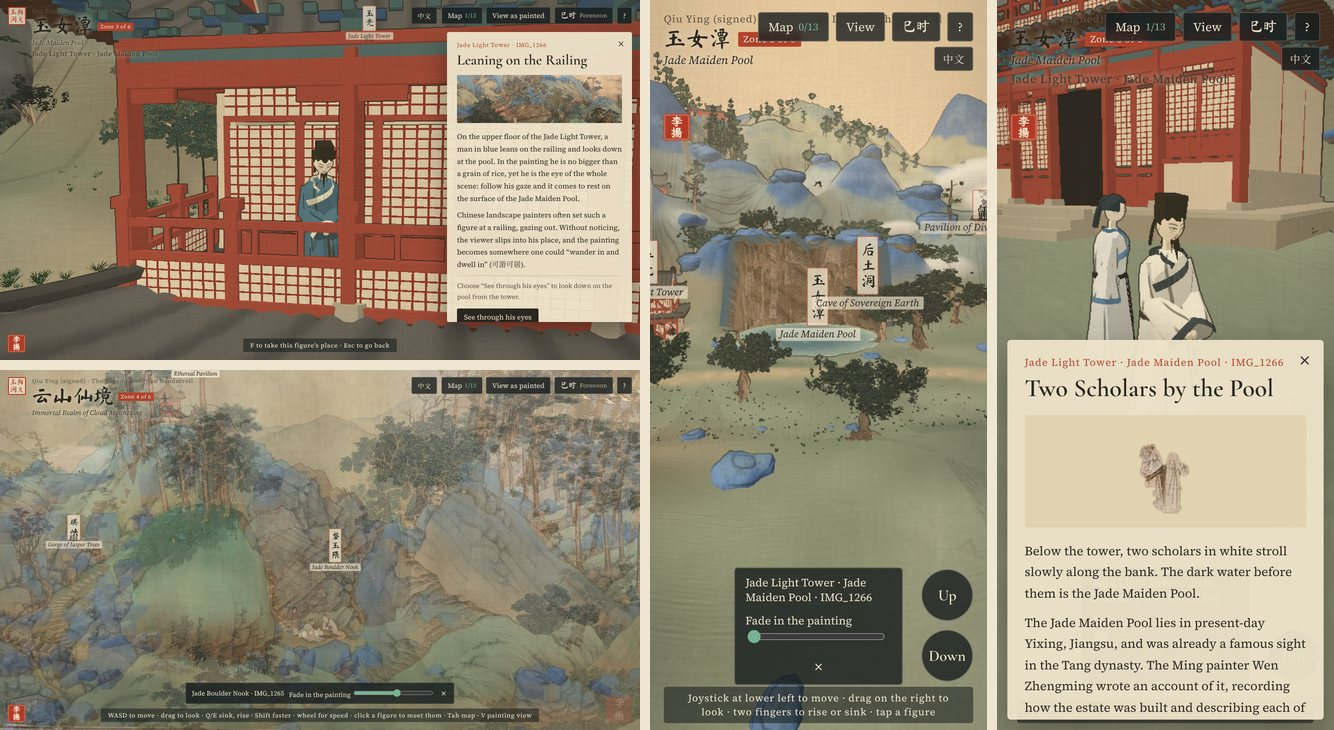
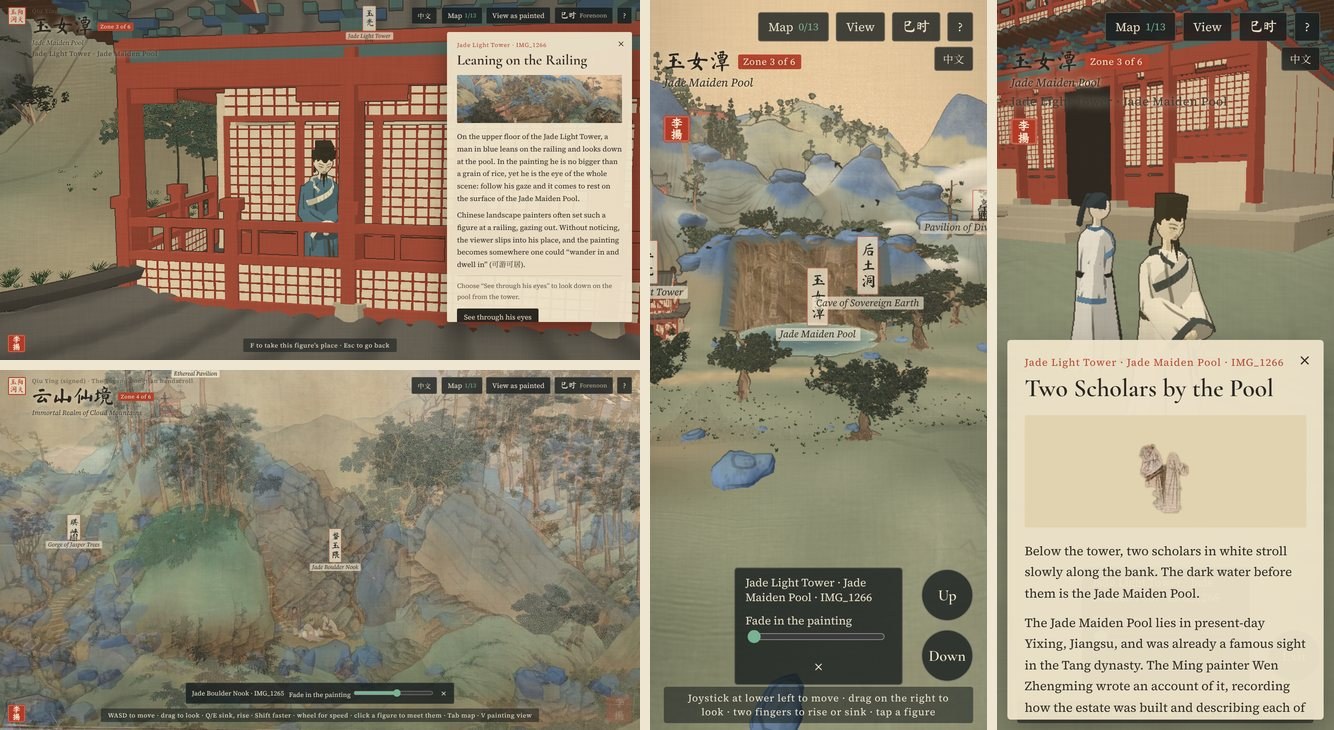
Add MIT + CC BY 4.0 licences, exclude painting photos; fix phone title overlap
- LICENSE (MIT) for the code, LICENSE-CC-BY-4.0 for original non-code
  content, NOTICE.md (English and Chinese) saying which files fall under
  which licence. The museum photographs of the painting and every image
  cut from them are excluded from both licences.
- fonts/OFL.txt: SIL OFL 1.1 text with each font's copyright line.
- README: License / 许可 sections; drop the old "not for commercial use"
  lines. CITATION.cff: license MIT, CC-BY-4.0.
- HUD: on phones the tool row covered the top-left title. At <=640px the
  title now sits under the tool row, clear of the language and Back
  buttons; the player name and the seal flow under the title instead of
  fixed offsets. At <=1180px the player name moves under the title (it hit
  the tool row on iPads and landscape phones); at <=900px the tool labels
  and the scroll-name line are hidden.
- docs/media/interface.jpg: phone panels re-rendered with the fix.

Claude-Session: https://claude.ai/code/session_01WjLTt5hQgztJTgxf86qmSP

Changed region(s): [[0.7376, 0.0, 1.0, 0.4822], [0.4918, 0.0, 0.6147, 0.1205], [0.4918, 0.1507, 0.5225, 0.211]]

diff --git a/index.html b/index.html
@@ -69,6 +69,8 @@ kbd{font-family:var(--f-body);font-size:11px;border:1px solid currentColor;borde
 #stageName{font-size:15px;letter-spacing:.12em;color:#3d3a32;text-shadow:0 0 10px rgba(236,226,201,.95);min-height:1.2em;}
 #who{position:fixed;z-index:5;white-space:nowrap;top:calc(14px + env(safe-area-inset-top,0px));left:50%;transform:translateX(-50%);background:var(--panel);border:1px solid rgba(121,179,147,.6);padding:4px 14px;border-radius:3px;font-size:13px;letter-spacing:.1em;}
 #who::before{content:"你正操控 ";color:var(--silk-dim);}
+#who,#aseal{color:var(--silk);text-shadow:none;} /* 两者放在 .tt 里（窄屏、触屏上跟着题名往下排），宽屏仍是 fixed，颜色和阴影别继承题名的 */
+#aseal{pointer-events:auto;}
 
 /* 右上：工具 */
 #tools{position:fixed;z-index:6;top:calc(14px + env(safe-area-inset-top,0px));right:max(16px,env(safe-area-inset-right,0px));display:flex;gap:8px;}
@@ -174,11 +176,19 @@ body.ready #veil{opacity:0;}
   body:not([data-mode="free"]) #btnUp, body:not([data-mode="free"]) #btnDown{display:none;}
   #hint{font-size:11.5px;}
 }
+/* 窄屏（手机横屏、平板竖屏、窄窗口）：顶部放不下题名、居中的操控名和带字的工具条，操控名改排到题名下面，工具条只留短字，题名去掉卷名小字 */
+@media (max-width:1180px){
+  #who{position:static;transform:none;align-self:flex-start;margin-top:6px;}
+}
+@media (max-width:900px){
+  #tools .t{display:none;}
+  .tt small{display:none;}
+}
 @media (max-width:640px){
   #card{left:12px;right:12px;width:auto;top:auto;bottom:calc(12px + env(safe-area-inset-bottom,0px));max-height:52%;}
   #card h2{font-size:26px;}
-  #tools .t{display:none;}
-  #who{top:calc(96px + env(safe-area-inset-top,0px));left:16px;transform:none;}
+  /* 手机竖屏：工具条占满顶行，题名挪到它下面，右边让出语言、返回按钮那一列 */
+  #title{top:calc(58px + env(safe-area-inset-top,0px));max-width:calc(100% - 104px);}
   .seal{display:none;}
   #banner .v span{font-size:34px;}
   #hint{bottom:calc(8px + env(safe-area-inset-bottom,0px));}
@@ -266,7 +276,7 @@ body.ready #veil{opacity:0;}
 #card .cr{font-size:13px;color:#5b5446;}
 #card .cr a{color:#8f2f1f;}
 #card .acts button.x{background:#7a3a2c;}
-@media (pointer:coarse){#aseal{top:calc(132px + env(safe-area-inset-top,0px));bottom:auto;--s:30px;} #aseal em{display:none;}} /* 手机左下是摇杆区，朱印挪到左上题名下面 */
+@media (pointer:coarse){#aseal{position:static;align-self:flex-start;margin-top:8px;--s:30px;} #aseal em{display:none;}} /* 手机左下是摇杆区，朱印挪到左上，跟在题名（和操控名）下面排 */
 @media (max-width:640px){
   #ba .sig span{writing-mode:horizontal-tb;font-size:18px;}
   .paper > div{padding:22px 18px 18px;}
@@ -338,10 +348,10 @@ body.ready #veil{opacity:0;}
   <div class="tt"><small><span class="zh">仇英（款）· 玉阳洞天图卷</span><span class="en">Qiu Ying (signed) · The Yuyang Dongtian handscroll</span></small>
     <div id="zoneRow"><div id="zoneName">玉女潭</div><span id="zoneTag"><span class="zh">第三区</span><span class="en">Zone 3 of 6</span></span></div>
     <div id="zoneEn" class="en"></div>
-    <div id="stageName"></div></div>
+    <div id="stageName"></div>
+    <div id="who" hidden></div>
+    <button id="aseal" title="作者 · 跋" data-en-title="The makers · Colophon" aria-label="作者信息（跋）" data-en-aria-label="About the makers (colophon)"><i class="yin"><b>李</b><b>揚</b></i><em><span class="zh">李揚 与 Claude 同制 · 点开看跋</span><span class="en">Made by Yang Li with Claude · read the colophon</span></em></button></div>
 </div>
-<div id="who" hidden></div>
-<button id="aseal" title="作者 · 跋" data-en-title="The makers · Colophon" aria-label="作者信息（跋）" data-en-aria-label="About the makers (colophon)"><i class="yin"><b>李</b><b>揚</b></i><em><span class="zh">李揚 与 Claude 同制 · 点开看跋</span><span class="en">Made by Yang Li with Claude · read the colophon</span></em></button>
 
 <div id="tools">
   <button id="btnLang" data-set-lang="toggle" title="Switch to English" data-en-title="切换到中文" lang="en"><span class="zh">EN</span><span class="en" lang="zh-Hans">中文</span></button>

diff --git a/README.md b/README.md
@@ -186,6 +186,8 @@ assets/            textures, the Guanyin head, low-resolution photographs, baked
 guestbook/         inscription-wall backend (Cloudflare Workers + D1)
 tools/bake.cjs     regenerates assets/world_bake.txt after any change in js/
 docs/media/        images for this README
+LICENSE            MIT, for the code; LICENSE-CC-BY-4.0 for original non-code content
+NOTICE.md          which files fall under which licence, and which are not licensed
 ```
 
 After editing anything in `js/`, run `node tools/bake.cjs .` before publishing. Otherwise the stale bake is ignored and the page computes everything while loading (same result, slower).
@@ -195,14 +197,21 @@ After editing anything in `js/`, run `node tools/bake.cjs .` before publishing. 
 ## Credits and sources
 
 - **Original work:** *Yuyang Dongtian tu* 玉阳洞天图卷, handscroll, bearing the signature of Qiu Ying (仇英, d. 1552). Tianjin Museum.
-- **Photographs:** taken by the author in the museum gallery. Only low-resolution copies are published, for study, teaching and non-commercial display.
+- **Photographs:** taken by the author in the museum gallery. Only low-resolution copies are published, so the game can show the painting beside its 3D world. They are not covered by this repository's licences (see [License](#license)).
 - **Rendering:** [three.js](https://threejs.org/) r170 (MIT License, see `vendor/three/LICENSE`).
 - **Inscription wall backend:** Cloudflare Workers + D1; code and setup in `guestbook/`.
-- **Fonts** (all SIL Open Font License 1.1, subset to the characters used): Ma Shan Zheng and Noto Serif SC; LXGW WenKai TC for the signature and seals only; Source Serif 4 and Cormorant Garamond for the English interface.
+- **Fonts** (all SIL Open Font License 1.1, subset to the characters used; see `fonts/OFL.txt`): Ma Shan Zheng and Noto Serif SC; LXGW WenKai TC for the signature and seals only; Source Serif 4 and Cormorant Garamond for the English interface.
 
 **Made by** Yang Li 李揚 with Claude · GitHub [@cookyecat](https://github.com/cookyecat) · X [@myannli](https://x.com/myannli)
 
-A personal and educational project, not for commercial use.
+## License
+
+- **Code** (`index.html`, `js/`, `tools/`, `guestbook/` and the rest of the source): [MIT License](LICENSE).
+- **Original non-code content** (this README, the screenshots and animations of the game, the Guanyin head model): [CC BY 4.0](LICENSE-CC-BY-4.0). Credit it as *Yuyang Dongtian Garden Walk* by Yang Li, made with Claude (Anthropic).
+- **Third-party parts** keep their own licences: three.js (MIT) and the fonts (SIL Open Font License 1.1).
+- **Not licensed:** the photographs of the painting taken in the Tianjin Museum, and every image cut from them, are excluded from both licences, and no permission to reuse them is granted. That covers `assets/painting_*.jpg`, the painted textures and figure cards in `assets/`, and the painting side of the comparison images on this page. The full list is in [NOTICE.md](NOTICE.md).
+
+Both licences allow commercial use, with credit.
 
 ## Citing
 
@@ -272,11 +281,18 @@ python3 -m http.server 8000
 ### 来源与致谢
 
 - 原作：仇英（款）《玉阳洞天图卷》，天津博物馆藏。
-- 原画照片：作者在博物馆展厅实拍。公开仓库里只放低清版本，仅用于学习、教学与非商业展示。
+- 原画照片：作者在博物馆展厅实拍。公开仓库里只放低清版本，用于游戏中与原画对照，不在本仓库的许可范围内（见下方「许可」）。
 - 渲染：[three.js](https://threejs.org/) r170（MIT 许可，见 `vendor/three/LICENSE`）。
 - 题名壁后端：Cloudflare Workers + D1，代码和部署步骤在 `guestbook/`。
-- 字体：马善政楷书 Ma Shan Zheng、思源宋体 Noto Serif SC；落款和印章用霞鹜文楷 TC（只含落款用字）；英文界面用 Source Serif 4 和 Cormorant Garamond。均为 SIL Open Font License 1.1，已按本作用字子集化。
+- 字体：马善政楷书 Ma Shan Zheng、思源宋体 Noto Serif SC；落款和印章用霞鹜文楷 TC（只含落款用字）；英文界面用 Source Serif 4 和 Cormorant Garamond。均为 SIL Open Font License 1.1，已按本作用字子集化，许可全文见 `fonts/OFL.txt`。
 
 **作者**：李揚 YANG LI 与 Claude · GitHub [@cookyecat](https://github.com/cookyecat) · X [@myannli](https://x.com/myannli)
 
-本项目为个人作品与教学展示，非商业用途。
+### 许可
+
+- 代码（`index.html`、`js/`、`tools/`、`guestbook/` 等全部源代码）：[MIT 许可](LICENSE)。
+- 原创的非代码内容（本 README、游戏截图与动图、观音头像模型）：[CC BY 4.0](LICENSE-CC-BY-4.0)。署名请写：《玉阳洞天游园》，李揚 与 Claude（Anthropic）同制。
+- 第三方组件沿用各自的许可：three.js（MIT），字体（SIL Open Font License 1.1）。
+- **不在许可范围内**：在天津博物馆拍摄的原画照片，以及从照片裁出的一切图像，既不适用 MIT，也不适用 CC BY 4.0，本仓库不授予任何再使用的许可。包括 `assets/painting_*.jpg`、`assets/` 里取自原画的贴图和人物卡片、本页对照图里原画那一侧。完整清单见 [NOTICE.md](NOTICE.md)。
+
+两种许可都允许在署名的前提下商用。

diff --git a/NOTICE.md b/NOTICE.md
@@ -1,0 +1,55 @@
+# Licences and exclusions · 许可与例外
+
+[中文 ↓](#中文)
+
+This repository holds three kinds of material under different terms.
+
+**1. Code: MIT License** ([`LICENSE`](LICENSE)), copyright (c) 2026 Yang Li.
+All source code: `index.html`, `fonts.css`, everything in `js/`, `tools/` and `guestbook/`, `nginx-yuyang.conf`, and the data the code generates (`assets/world_bake.txt`).
+
+**2. Original non-code content: CC BY 4.0** ([`LICENSE-CC-BY-4.0`](LICENSE-CC-BY-4.0)), by Yang Li.
+The README and other documentation, the Guanyin head model (`assets/guanyin_head.txt`), and the screenshots and animations of the game in `docs/media/` and `cover.jpg`, except for the parts listed under 4 below.
+Please credit it as: *Yuyang Dongtian Garden Walk* by Yang Li, made with Claude (Anthropic), https://github.com/cookyecat/yuyang-dongtian, CC BY 4.0.
+
+**3. Third-party parts keep their own licences.**
+three.js in `vendor/three/` (MIT, see `vendor/three/LICENSE`). The fonts in `fonts/` (SIL Open Font License 1.1, see `fonts/OFL.txt`).
+
+**4. Not licensed: photographs of the painting.**
+The photographs of the handscroll *Yuyang Dongtian tu* 玉阳洞天图卷 (bearing the signature of Qiu Ying; Tianjin Museum), taken in the museum's gallery, and every image cut from them or reproducing them, are **not** covered by the MIT License or CC BY 4.0. No permission to reuse them is granted here. Any rights in them and in the painting stay with their holders. They are in this repository, at low resolution, only so that the game can show the painting beside its 3D world. These are:
+
+- `assets/painting_*.jpg` (the thirteen photographs, low resolution)
+- the textures and figure cards cut from them: `assets/cliff.jpg`, `assets/rock.jpg`, `assets/slope.jpg`, `assets/leaf0.png`, `assets/leaf1.png`, `assets/leaf2.png`, `assets/1265_figures.webp`, `assets/1266_figures.webp`, `assets/1267_cranes.webp`, `assets/1267_elders.webp`, `assets/1267_kids.webp`
+- the photograph half of `cover.jpg`
+- in `docs/media/`: the photograph halves of `pair-*.jpg`, the photograph layers of `overlay-s08.jpg`, the opening frames of `hero.webp` (the painting before it dissolves into the 3D view), the photograph thumbnails in `seams.png`, and the painting overlay and card picture in `interface.jpg`
+- the same textures wherever they show inside a screenshot of the game
+
+If you reuse the code or the screenshots, leave these images out or get permission for them yourself.
+
+---
+
+<a id="中文"></a>
+
+## 中文
+
+本仓库的内容分三类授权，另有一类不在任何许可之内。
+
+**1. 代码：MIT 许可**（[`LICENSE`](LICENSE)），版权 (c) 2026 李揚 Yang Li。
+全部源代码：`index.html`、`fonts.css`、`js/`、`tools/`、`guestbook/` 里的一切、`nginx-yuyang.conf`，以及代码生成的数据（`assets/world_bake.txt`）。
+
+**2. 原创的非代码内容：CC BY 4.0**（[`LICENSE-CC-BY-4.0`](LICENSE-CC-BY-4.0)），作者李揚。
+README 等文档、观音头像模型（`assets/guanyin_head.txt`）、`docs/media/` 和 `cover.jpg` 里的游戏截图与动图，但第 4 条列出的部分除外。
+署名请写：《玉阳洞天游园》，李揚 与 Claude（Anthropic）同制，https://github.com/cookyecat/yuyang-dongtian ，CC BY 4.0。
+
+**3. 第三方组件沿用各自的许可。**
+`vendor/three/` 里的 three.js（MIT，见 `vendor/three/LICENSE`）；`fonts/` 里的字体（SIL Open Font License 1.1，见 `fonts/OFL.txt`）。
+
+**4. 不在许可范围内：原画照片。**
+在天津博物馆展厅拍摄的仇英（款）《玉阳洞天图卷》照片，以及从照片裁出或翻印照片的一切图像，**不**适用 MIT 许可，也**不**适用 CC BY 4.0。本仓库不授予任何再使用的许可，照片和原作的相关权利归各自的权利人。仓库里只放低清版本，仅用于游戏中与原画对照。具体是：
+
+- `assets/painting_*.jpg`（十三张低清原画照片）
+- 从照片裁出的贴图和人物卡片：`assets/cliff.jpg`、`assets/rock.jpg`、`assets/slope.jpg`、`assets/leaf0.png`、`assets/leaf1.png`、`assets/leaf2.png`、`assets/1265_figures.webp`、`assets/1266_figures.webp`、`assets/1267_cranes.webp`、`assets/1267_elders.webp`、`assets/1267_kids.webp`
+- `cover.jpg` 里原画照片那一半
+- `docs/media/` 里：`pair-*.jpg` 的原画照片那一半，`overlay-s08.jpg` 的原画照片层，`hero.webp` 开头的原画画面（化入 3D 画境之前），`seams.png` 里的照片缩略图，`interface.jpg` 里的原画叠图和卡片配图
+- 以及游戏截图里出现的上述贴图
+
+再使用本仓库的代码或截图时，请去掉这些图像，或自行取得许可。
